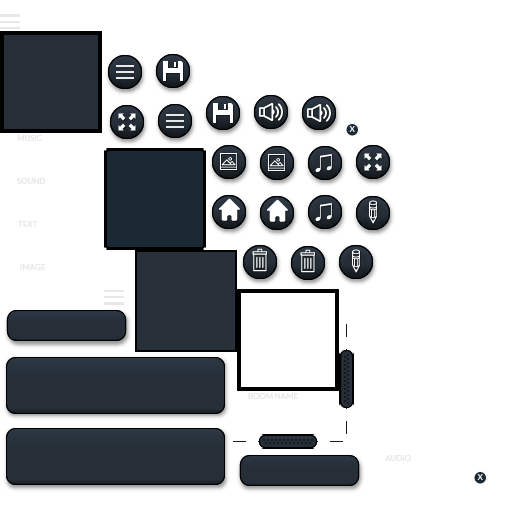
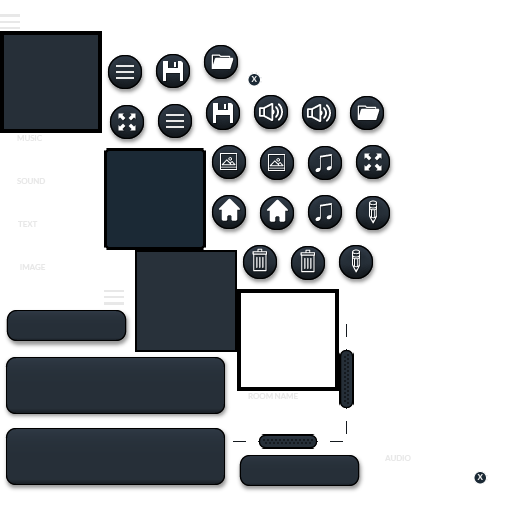
Added resource path selection.

Changed region(s): [[0.375, 0.0625, 0.5, 0.1875], [0.6562, 0.1875, 0.75, 0.2812]]

diff --git a/editor/src/main/java/com/ray3k/liftoff/editor/Utils.java b/editor/src/main/java/com/ray3k/liftoff/editor/Utils.java
@@ -1,5 +1,7 @@
 package com.ray3k.liftoff.editor;
 
+import com.badlogic.gdx.Gdx;
+import com.badlogic.gdx.files.FileHandle;
 import com.badlogic.gdx.scenes.scene2d.Actor;
 import com.badlogic.gdx.scenes.scene2d.utils.ChangeListener;
 import org.lwjgl.PointerBuffer;
@@ -23,7 +25,7 @@ public class Utils {
         });
     }
     
-    public static List<File> openMultipleDialog(String title, String defaultPath,
+    public static List<FileHandle> openMultipleDialog(String title, String defaultPath,
                                                 String[] filterPatterns, String filterDescription) {
         String result = null;
         
@@ -50,9 +52,9 @@ public class Utils {
         
         if (result != null) {
             var paths = result.split("\\|");
-            var returnValue = new ArrayList<File>();
+            var returnValue = new ArrayList<FileHandle>();
             for (var path : paths) {
-                returnValue.add(new File(path));
+                returnValue.add(Gdx.files.external(path));
             }
             return returnValue;
         } else {
@@ -60,7 +62,7 @@ public class Utils {
         }
     }
     
-    public static File openDialog(String title, String defaultPath,
+    public static FileHandle openDialog(String title, String defaultPath,
 String[] filterPatterns, String filterDescription) {
         String result = null;
         
@@ -87,13 +89,32 @@ String[] filterPatterns, String filterDescription) {
         }
         
         if (result != null) {
-            return new File(result);
+            return Gdx.files.external(result);
         } else {
             return null;
         }
     }
     
-    public static File saveDialog(String title, String defaultPath,
+    public static FileHandle openFolderDialog(String title, String defaultPath) {
+        String result = null;
+    
+        //fix file path characters
+        if (isWindows()) {
+            defaultPath = defaultPath.replace("/", "\\");
+        } else {
+            defaultPath = defaultPath.replace("\\", "/");
+        }
+        
+        result =  org.lwjgl.util.tinyfd.TinyFileDialogs.tinyfd_selectFolderDialog(title, defaultPath);
+    
+        if (result != null) {
+            return Gdx.files.external(result);
+        } else {
+            return null;
+        }
+    }
+    
+    public static FileHandle saveDialog(String title, String defaultPath,
 String[] filterPatterns, String filterDescription) {
         String result = null;
         
@@ -121,7 +142,7 @@ String[] filterPatterns, String filterDescription) {
         }
         
         if (result != null) {
-            return new File(result);
+            return Gdx.files.external(result);
         } else {
             return null;
         }

diff --git a/editor/src/main/java/com/ray3k/liftoff/editor/Editor.java b/editor/src/main/java/com/ray3k/liftoff/editor/Editor.java
@@ -8,6 +8,7 @@ import com.badlogic.gdx.assets.AssetManager;
 import com.badlogic.gdx.assets.loaders.resolvers.InternalFileHandleResolver;
 import com.badlogic.gdx.backends.lwjgl3.Lwjgl3Application;
 import com.badlogic.gdx.backends.lwjgl3.Lwjgl3ApplicationConfiguration;
+import com.badlogic.gdx.files.FileHandle;
 import com.badlogic.gdx.graphics.OrthographicCamera;
 import com.badlogic.gdx.math.Vector2;
 import com.badlogic.gdx.scenes.scene2d.Action;
@@ -46,6 +47,7 @@ public class Editor extends ApplicationAdapter {
     public static PopTableStyle popTableStyle;
     private static final Vector2 vector2 = new Vector2();
     public static final Array<RoomWidget> roomWidgets = new Array<>();
+    public static FileHandle resourcesPath;
     
     public static void main(String[] args) {
         Lwjgl3ApplicationConfiguration configuration = new Lwjgl3ApplicationConfiguration();
@@ -145,6 +147,12 @@ public class Editor extends ApplicationAdapter {
         root.add(button);
         cl(button, () -> {
             zoomOut();
+        });
+        
+        button = new Button(skin, "folder");
+        root.add(button);
+        cl(button, () -> {
+            resourcesPath = Utils.openFolderDialog("Select resources path", "");
         });
         
         for (var roomWidget : roomWidgets) {
